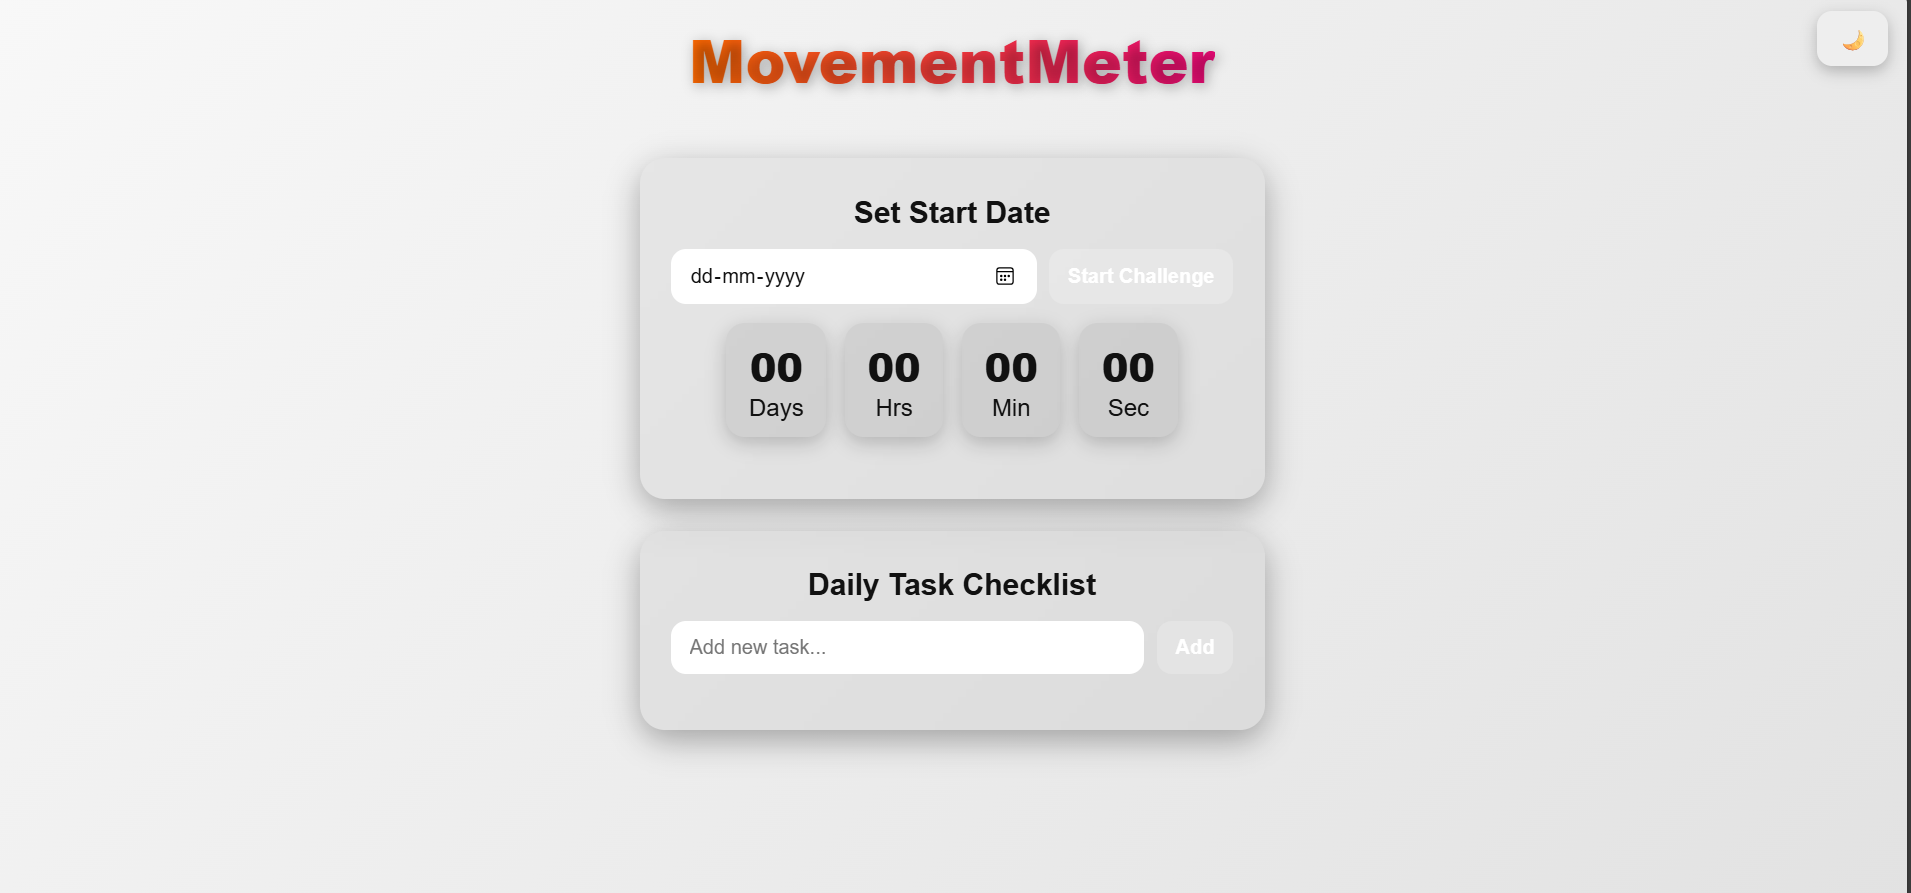
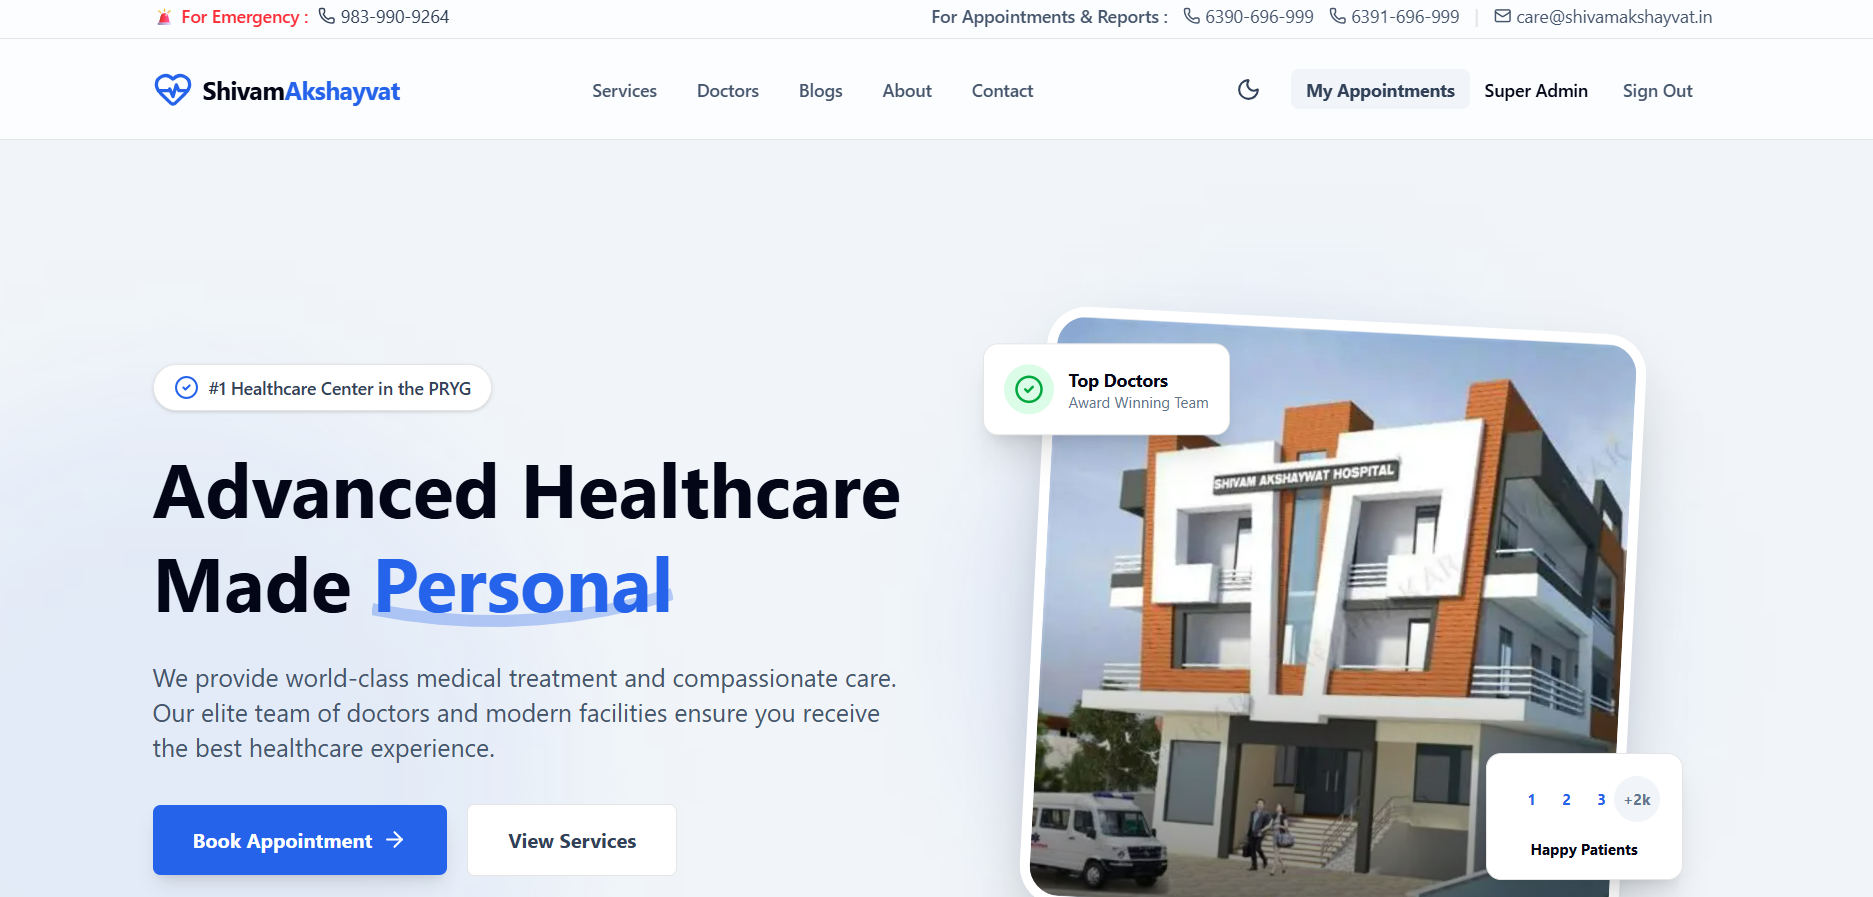
skill and projects section rearranged

diff --git a/src/components/Project.jsx b/src/components/Project.jsx
@@ -1,85 +1,152 @@
-import { FaNodeJs } from "react-icons/fa";
-import { IoOpenOutline } from "react-icons/io5";
-import { SiExpress, SiMongodb } from "react-icons/si";
+import { FaExternalLinkAlt } from "react-icons/fa";
+import { FaHtml5 } from "react-icons/fa";
+import { SiJavascript } from "react-icons/si";
+import { SiMongodb, SiTailwindcss, SiNextdotjs } from "react-icons/si";
 
 function Project() {
+  const projects = [
+    {
+      id: "01",
+      title: "Healthcare Platform",
+      highlight: "Live Client Project",
+      description:
+        "Developed a public-facing hospital website with seamless online appointment booking.",
+      image: "p1.png",
+      liveLink: "https://shivamakshayvat-dev.vercel.app/",
+      techStack: [
+        { name: "NextJS", icon: <SiNextdotjs className="text-white text-lg" /> },
+        {
+          name: "TailwindCSS",
+          icon: <SiTailwindcss className="text-sky-400 text-lg" />,
+        },
+        {
+          name: "MongoDB",
+          icon: <SiMongodb className="text-emerald-400 text-lg" />,
+        },
+      ],
+    },
+    {
+      id: "02",
+      title: "TryOnAI",
+      description:
+        "AI-powered platform that generates realistic fashion models from clothing images, helping brands visualize outfits without traditional photoshoots.",
+      image: "p2.png",
+      liveLink: "https://ai-cloth-model.vercel.app/",
+      techStack: [
+        { name: "NextJS", icon: <SiNextdotjs className="text-white text-lg" /> },
+        {
+          name: "TailwindCSS",
+          icon: <SiTailwindcss className="text-sky-400 text-lg" />,
+        },
+        {
+          name: "MongoDB",
+          icon: <SiMongodb className="text-emerald-400 text-lg" />,
+        },
+      ],
+    },
+    {
+      id: "03",
+      title: "QR Code Generator",
+      description:
+        "A QR Code Generator that converts text, URLs, and other information into scannable QR codes instantly.",
+      image: "p3.png",
+      liveLink: "https://your-project-link-2.com",
+      techStack: [
+        { name: "HTML", icon: <FaHtml5 className="text-orange-500 text-lg" /> },
+        {
+          name: "JavaScript",
+          icon: <SiJavascript className="text-yellow-300 text-lg" />,
+        },
+      ],
+    },
+  ];
+
   return (
-    <section id="projects"
-      className="
-        rounded-2xl
-        border border-white/10
-        bg-linear-to-br from-[#020617] to-[#020617]/60
-        p-5 shadow-xl
-      "
+    <section
+      id="projects"
+      className="rounded-3xl border border-white/10 bg-gradient-to-br from-[#020617] via-[#0f172a] to-[#020617]/90 p-5 md:p-8 shadow-2xl"
     >
       {/* Heading */}
-      <div className="text-center mb-6">
-        <p className="text-gray-100">Browse My Recents</p>
-        <h1 className="text-4xl font-bold text-pink-500">Projects</h1>
+      <div className="text-center mb-12">
+        <p className="text-gray-300 tracking-wide">Browse My Recent</p>
+        <h1 className="text-4xl md:text-4xl font-extrabold text-pink-500 mt-2">
+          Projects
+        </h1>
+        <div className="w-24 h-1 bg-linear-to-r from-pink-500 to-blue-500 mx-auto mt-4 rounded-full"></div>
       </div>
 
-      {/* Image + Content */}
-      <div className="flex flex-col md:flex-row gap-4 mb-6">
-        {/* Image */}
-        <div className="flex-1 order-1 md:order-0">
-          <img
-            src="p1.png"
-            alt="project"
-            className="w-full h-full object-cover rounded-lg border-4 border-blue-900"
-          />
-        </div>
-
-        {/* Content */}
-        <div className="flex-1 order-2 md:order-0">
-          <h1 className="text-3xl font-bold text-orange-500 mb-2">
-            MovementMeter
-          </h1>
-
-          <p className="text-gray-400 mb-3">
-            “Track your movement journey with real-time countdowns and
-            goal-focused progress insights.”
-          </p>
-
-          <a
-            className="text-gray-100 flex items-center gap-1
-            hover:text-blue-800 hover:underline underline-offset-1"
-            target="_blank"
-            href="https://movement-meter.vercel.app/"
+      {/* Projects */}
+      <div className="space-y-10">
+        {projects.map((project, index) => (
+          <div
+            key={project.id}
+            className="group relative overflow-hidden rounded-3xl border border-white/10 bg-white/5 backdrop-blur-md p-4 md:p-6 shadow-lg hover:shadow-pink-500/10 transition duration-300"
           >
-            <div> https://movement-meter.vercel.app</div>
-            <IoOpenOutline />
-          </a>
-        </div>
-      </div>
+            <div
+              className={`flex flex-col gap-6 md:gap-10 items-center ${
+                index % 2 === 0 ? "md:flex-row" : "md:flex-row-reverse"
+              }`}
+            >
+              {/* Image */}
+              <div className="flex-1 w-full">
+                <div className="relative overflow-hidden rounded-2xl border border-white/10 bg-slate-900/40 p-3">
+                  <img
+                    src={project.image}
+                    alt={project.title}
+                    className="w-full h-64 sm:h-72 md:h-80 object-contain transition duration-500 group-hover:scale-[1.02]"
+                  />
 
-      {/* 🔥 Tech Stack (Always below, centered) */}
-      <div className="flex justify-center gap-3 flex-wrap">
-        <div
-          className="flex items-center gap-1 px-4 py-2
-          rounded-lg border border-white/10 bg-black/5
-          hover:bg-white/10 transition"
-        >
-          <FaNodeJs className="text-green-500" />
-          <span className="text-sm font-bold text-gray-200">NodeJS</span>
-        </div>
+                  <div className="absolute top-4 left-4 px-4 py-1 rounded-full bg-black/60 border border-white/10 text-pink-400 font-bold text-sm">
+                    {project.id}
+                  </div>
+                </div>
+              </div>
 
-        <div
-          className="flex items-center gap-1 px-4 py-2
-          rounded-lg border border-white/10 bg-black/5
-          hover:bg-white/10 transition"
-        >
-          <SiExpress className="text-gray-200" />
-          <span className="text-sm font-bold text-gray-200">ExpressJS</span>
-        </div>
+              {/* Content */}
+              <div className="flex-1 w-full">
+                <h2 className="text-2xl sm:text-3xl md:text-4xl font-bold text-orange-400 mb-1">
+                  {project.title}
+                </h2>
 
-        <div
-          className="flex items-center gap-1 px-4 py-2
-          rounded-lg border border-white/10 bg-black/5
-          hover:bg-white/10 transition"
-        >
-          <SiMongodb className="text-green-400" />
-          <span className="text-sm font-bold text-gray-200">MongoDB</span>
-        </div>
+                {project.highlight && (
+                  <p className="text-sm md:text-base text-pink-300 font-medium mb-3">
+                    {project.highlight}
+                  </p>
+                )}
+
+                <p className="text-gray-300 leading-7 mb-5">
+                  {project.description}
+                </p>
+
+                {/* Live Demo Button */}
+                <div className="mb-6">
+                  <a
+                    href={project.liveLink}
+                    target="_blank"
+                    rel="noreferrer"
+                    className="inline-flex items-center gap-2 px-4 py-2 rounded-lg bg-linear-to-r from-pink-500 to-rose-500 text-white text-sm font-semibold hover:scale-105 transition duration-300 shadow-md"
+                  >
+                    <FaExternalLinkAlt className="text-xs" />
+                    Live Demo
+                  </a>
+                </div>
+
+                {/* Tech Stack */}
+                <div className="flex flex-wrap gap-3">
+                  {project.techStack.map((tech, techIndex) => (
+                    <div
+                      key={techIndex}
+                      className="flex items-center gap-2 px-4 py-2 rounded-xl border border-white/10 bg-black/20 text-gray-200 hover:bg-white/10 transition duration-300"
+                    >
+                      {tech.icon}
+                      <span className="text-sm font-semibold">{tech.name}</span>
+                    </div>
+                  ))}
+                </div>
+              </div>
+            </div>
+          </div>
+        ))}
       </div>
     </section>
   );

diff --git a/src/components/Skills.jsx b/src/components/Skills.jsx
@@ -27,20 +27,20 @@ const skills = [
   { name: "JavaScript", icon: IoLogoJavascript, color: "text-yellow-400" },
   { name: "TypeScript", icon: SiTypescript, color: "text-blue-500" },
   { name: "React", icon: FaReact, color: "text-cyan-400" },
-  { name: "React Native", icon: FaReact, color: "text-sky-400" },
+  // { name: "React Native", icon: FaReact, color: "text-sky-400" },
   { name: "Nextjs", icon: TbBrandNextjs, color: "text-white" },
   { name: "NodeJs", icon: FaNodeJs, color: "text-green-500" },
   { name: "ExpressJs", icon: SiExpress, color: "text-gray-300" },
-  { name: "Socket.io", icon: TbBrandSocketIo, color: "text-indigo-400" },
-  { name: "Django", icon: SiDjango, color: "text-emerald-600" },
+  // { name: "Socket.io", icon: TbBrandSocketIo, color: "text-indigo-400" },
+  // { name: "Django", icon: SiDjango, color: "text-emerald-600" },
   { name: "Python", icon: FaPython, color: "text-blue-400" },
-  { name: "Selenium", icon: SiSelenium, color: "text-purple-400" },
+  // { name: "Selenium", icon: SiSelenium, color: "text-purple-400" },
   { name: "Mongodb", icon: SiMongodb, color: "text-green-400" },
-  { name: "Postgresql", icon: SiPostgresql, color: "text-sky-500" },
-  { name: "Sqlite", icon: SiSqlite, color: "text-indigo-400" },
+  // { name: "Postgresql", icon: SiPostgresql, color: "text-sky-500" },
+  // { name: "Sqlite", icon: SiSqlite, color: "text-indigo-400" },
   { name: "Tailwind CSS", icon: RiTailwindCssLine, color: "text-cyan-300" },
-  { name: "Prisma", icon: SiPrisma, color: "text-fuchsia-400" },
-  { name: "Docker", icon: FaDocker, color: "text-blue-600" },
+  // { name: "Prisma", icon: SiPrisma, color: "text-fuchsia-400" },
+  // { name: "Docker", icon: FaDocker, color: "text-blue-600" },
   { name: "Git", icon: FaGitAlt, color: "text-orange-500" },
   { name: "Github", icon: FaGithub, color: "text-gray-100" },
   { name: "C++", icon: TbBrandCpp, color: "text-blue-700" },

diff --git a/src/components/Education.jsx b/src/components/Education.jsx
@@ -13,7 +13,7 @@ export default function Educationclg() {
       <h1 className="text-center text-4xl font-bold text-pink-500 mb-5">
         Education
       </h1>
-
+       {/* <div className="w-40  h-1 bg-linear-to-r from-pink-500 to-blue-500 mx-auto mt-4 rounded-full"></div> */}
       <div className="flex flex-col sm:flex-row items-center gap-6">
         <div className="shrink-0">
           <img
